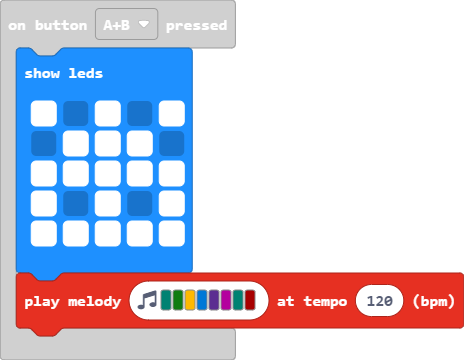
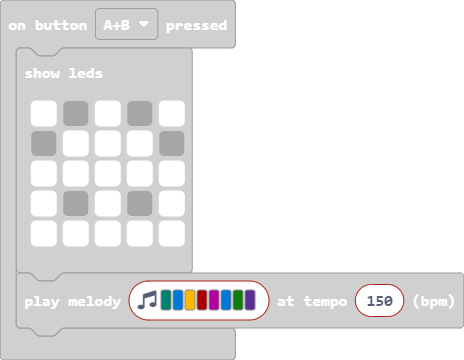
Update main.blocks, main.ts

Changed region(s): [[0.0302, 0.1222, 1.0, 0.9472]]

diff --git a/main.ts b/main.ts
@@ -9,7 +9,7 @@ input.onButtonPressed(Button.AB, function () {
         # . # . #
         # # # # #
         `)
-    music.playMelody("F G A E D C F C5 ", 120)
+    music.playMelody("F E A C5 C E G D ", 150)
 })
 input.onButtonPressed(Button.B, function () {
     basic.showIcon(IconNames.Sad)
